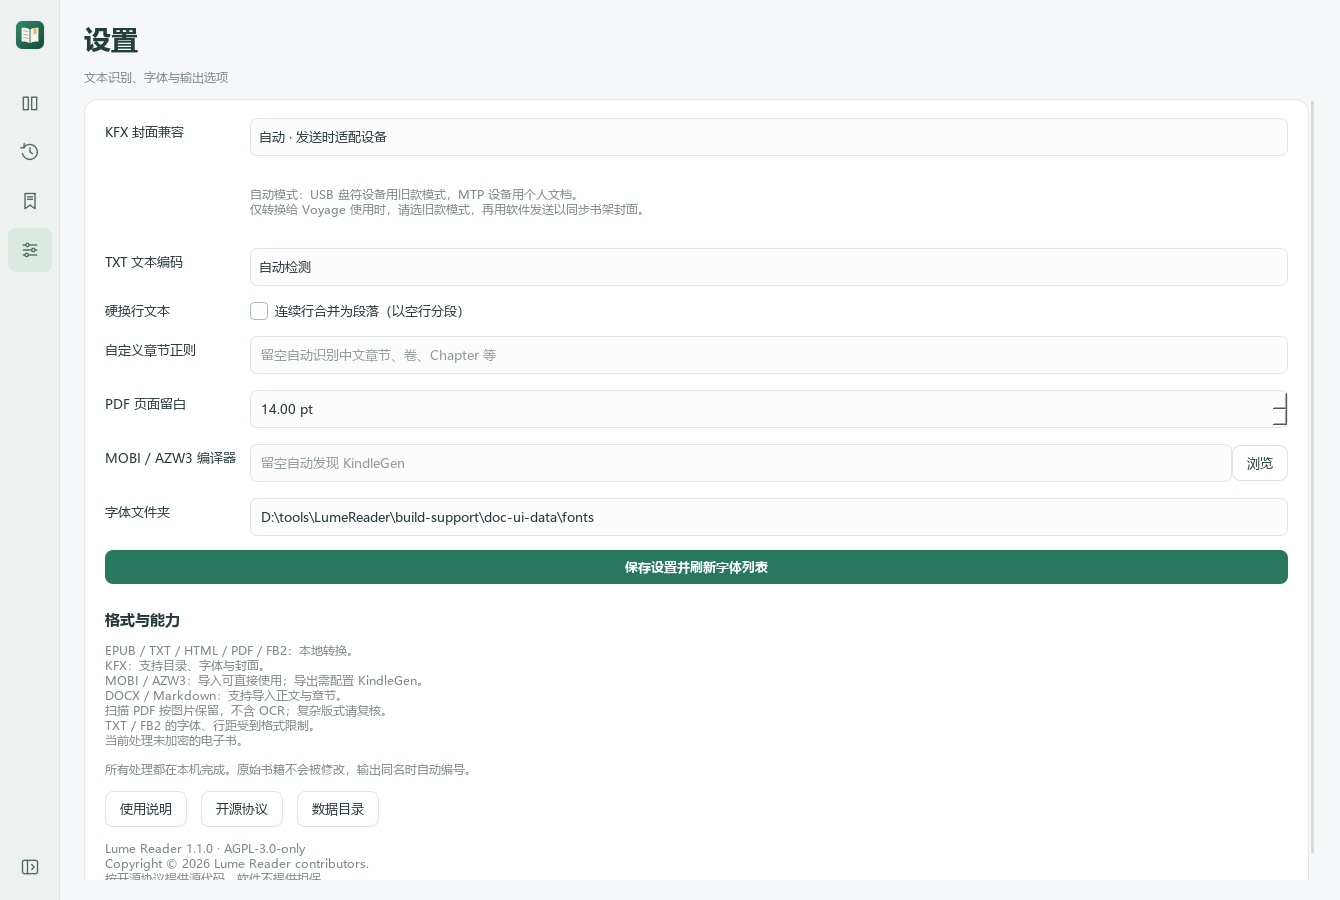
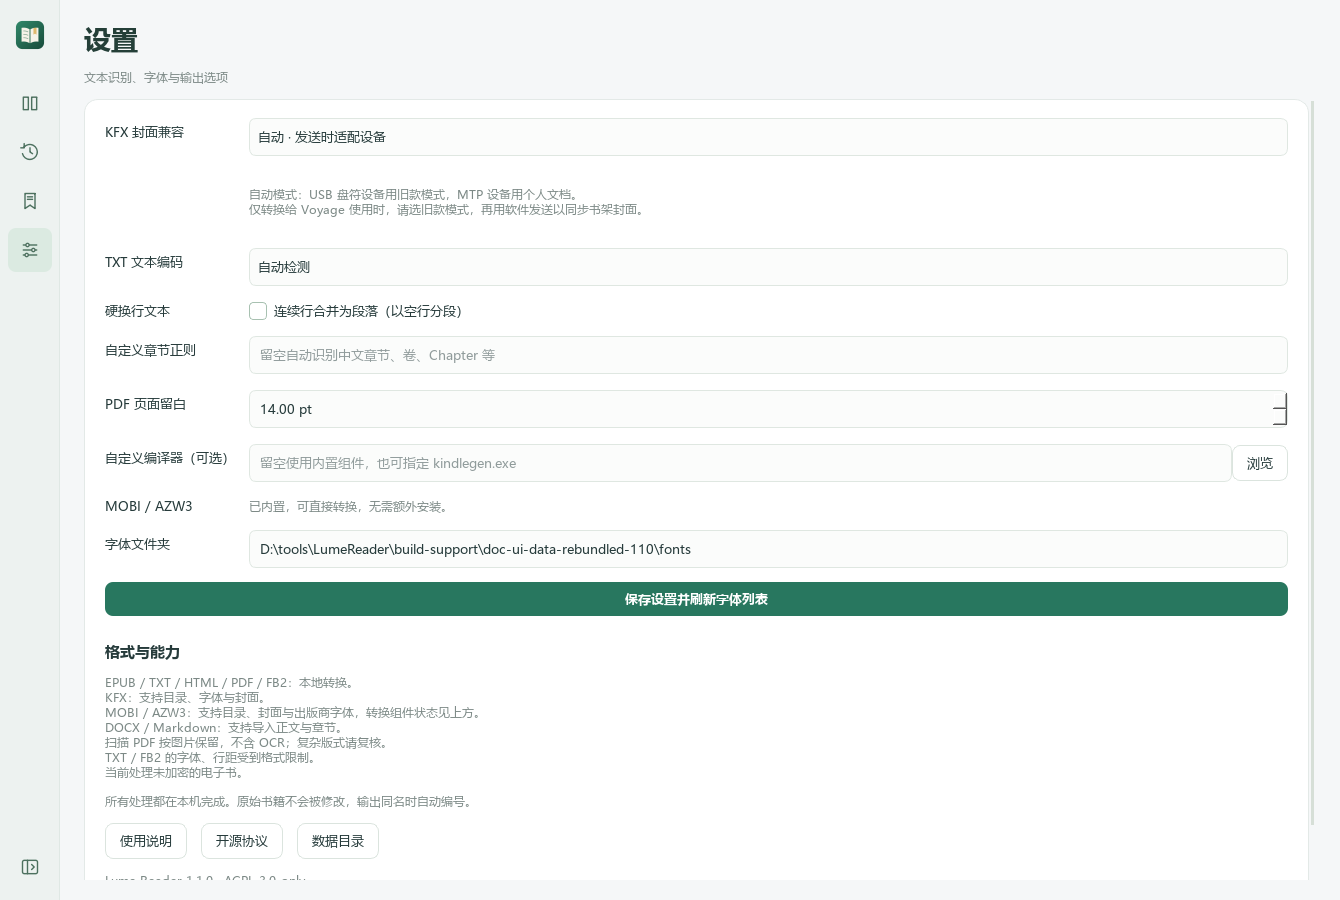
Refresh v1.1.0 with bundled KindleGen and concise release notes

diff --git a/lume/__init__.py b/lume/__init__.py
@@ -1,2 +1,2 @@
 """轻阅 Lume — local ebook conversion and Kindle library management."""
-__version__ = '1.1.1'
+__version__ = '1.1.0'

diff --git a/README.md b/README.md
@@ -6,10 +6,6 @@ Windows 电子书转换与 Kindle 书架管理工具，使用 Python / PyQt6 开
 
 [下载 Windows 安装包](https://github.com/jiuduweiliangeer/LumeReader/releases/latest) · [完整使用说明](docs/USAGE.md) · [构建安装包](docs/BUILD.md) · [开源协议](LICENSE.md)
 
-## 本地集成构建 1.1.1
-
-本地集成安装包已包含 KindleGen，**AZW3 / MOBI 无需额外安装或手动配置**。设置页显示组件状态；旧外部路径失效时自动使用内置组件。连接 Voyage 后可直接推荐 AZW3。集成安装包仅在本地生成，公开 Release v1.1.0 仍按下方依赖表使用。[构建方式](docs/BUILD.md#本地集成-kindlegen)。
-
 ## v1.1.0 更新：新增与修复
 
 1. **兼容与界面修复**：增加 Voyage 等旧款 Kindle 的 KFX 书架封面兼容与封面缓存恢复；修复帮助页中文正文丢失、Markdown 表格和图片显示；主导航可收起为图标栏，并记住展开状态。
@@ -17,24 +13,27 @@ Windows 电子书转换与 Kindle 书架管理工具，使用 Python / PyQt6 开
 3. **设备预设与格式推荐**：提供七种阅读预设，连接 Kindle 后在转换前显示推荐格式与原因，特殊机型自动切换，也可手动指定型号和格式。内置霞鹜文楷、汇文明朝、悠哉字体，保留自备字体入口。
 4. **摘抄管理与导出**：读取或导入 My Clippings.txt，按书籍分类查看划线、笔记和书签，使用窄书名列表与宽阅读区，支持搜索、分页与重复导入去重；检测本机笔记软件，按目标自动转换并导入或打开文件导入流程，也可保存为 ENEX / Markdown。[查看摘抄界面示例](docs/images/clippings.png)。
 
-验证：108 项自动测试通过，独立 EXE 完成 56 次格式转换（其中 49 次为非 TXT 输入互转）；ENEX / ENML 通过官方 DTD 校验。Voyage 真机书架显示仍需设备复核，旧 PDOC KFX 请重新转换并发送。详见 [更新记录](docs/CHANGELOG.md) 和 [Voyage 封面说明](docs/VOYAGE_COVERS.md)。
+5. **内置 KindleGen**：安装包已集成 AZW3 / MOBI 转换组件，无需额外安装或手动配置；旧编译器路径失效时自动使用内置组件。
+6. **Voyage 推荐 AZW3**：连接 Kindle Voyage 后自动推荐 AZW3，仍可手动切换其他格式。
+
+完整变更见 [更新记录](docs/CHANGELOG.md)。
 
 ![书籍工作台](docs/images/workspace.png)
 
 ## 安装与功能介绍
 
 - Windows 10 / 11，64 位。下载 Release 中的 `LumeReader-1.1.0-Setup-x64.exe` 并运行。
-- 安装包已包含 Python、PyQt6 和转换所需的开源组件，**不用安装 Python、Calibre 或 Calibre 插件**。
+- 安装包已包含 Python、PyQt6、KindleGen 和转换所需组件，**不用额外安装 Python、Calibre、KindleGen 或 Calibre 插件**。
 - **TXT、EPUB、KFX、PDF、HTML、FB2 之间互转，安装本软件即可使用。**
 - **MOBI / AZW / AZW3 导入后转为上述六种格式，也不需要 KindleGen。**
-- **只有导出 MOBI / AZW3 需要额外提供 KindleGen**，详见下面的表格和官方下载链接。
+- **AZW3 / MOBI 转换使用已内置的 KindleGen，安装软件即可使用。**
 - Kindle Previewer 是可选的桌面预览工具；KFX 转换本身不依赖它。
 
 当前安装包未做代码签名。Release 同时提供 `SHA256SUMS-1.1.0.txt`，可使用 PowerShell 的 `Get-FileHash` 核对文件。
 
 ## 格式与额外依赖
 
-“直接使用”指已经安装 Lume Reader。转换依赖由**目标格式**决定；原文件必须未加密、内容完整。
+“直接使用”指已经安装 Lume Reader。下表支持的转换均可直接使用；原文件必须未加密、内容完整。
 
 | 格式 | 导入本格式 | 导出为此格式 | 额外安装 | 主要限制 |
 |---|---|---|---|---|
@@ -44,24 +43,24 @@ Windows 电子书转换与 Kindle 书架管理工具，使用 Python / PyQt6 开
 | PDF | 直接使用 | 直接使用 | 无 | 文本可重排；扫描页保留为图片，无 OCR；输出包含目录书签 |
 | HTML / HTM | 直接使用 | 直接使用，输出 HTML | 无 | 单文件输出内嵌图片与字体 |
 | FB2 | 直接使用 | 直接使用 | 无 | 支持章节与图片；字体、行距受格式及阅读器限制 |
-| MOBI | 直接使用 | **需要 KindleGen** | 仅导出需要外部编译器 | 输出 MOBI7 + KF8；旧 MOBI7 不支持嵌入字体 |
-| AZW3 | 直接使用 | **需要 KindleGen** | 仅导出需要外部编译器 | KF8 格式，支持封面、目录及出版商字体 |
+| MOBI | 直接使用 | 直接使用，已内置 KindleGen | 无 | 输出 MOBI7 + KF8；旧 MOBI7 不支持嵌入字体 |
+| AZW3 | 直接使用 | 直接使用，已内置 KindleGen | 无 | KF8 格式，支持封面、目录及出版商字体 |
 | AZW | 直接使用（MOBI/KF8 类型） | 不导出 AZW | 无 | 可转其他目标格式；并非所有 .azw 都是同一种容器 |
 | KFX-ZIP / KPF | 直接使用 | 不导出 | 无 | 只读取可解析且完整的未加密内容 |
 | DOCX | 直接使用 | 不导出 | 无 | 导入正文、标题和图片，复杂表格会简化 |
 | Markdown / MD | 直接使用 | 不导出 | 无 | 导入文字与章节标题 |
 
-例如：`MOBI → KFX`、`AZW3 → EPUB`、`EPUB → PDF`、`PDF → EPUB` 均可直接转换；`EPUB → AZW3`、`KFX → MOBI` 才需要 KindleGen。支持格式不代表复杂版式可以无损互转。
+例如：`MOBI → KFX`、`AZW3 → EPUB`、`EPUB → PDF`、`PDF → EPUB`、`EPUB → AZW3`、`KFX → MOBI` 均可直接转换，无需额外安装转换组件。支持格式不代表复杂版式可以无损互转。
 
 ### 可选软件与官方下载链接
 
 | 软件 / 文件 | 哪些情况需要 | 官方来源 | 配置方式 |
 |---|---|---|---|
-| Amazon KindleGen (`kindlegen.exe`) | **导出 MOBI / AZW3 必需**；其他目标格式不需要 | Amazon 已将工作流转向 [Kindle Previewer 官方页面](https://kdp.amazon.com/en_US/help/topic/G202131170)；本机验证使用 Previewer 3 发行版附带的 KindleGen | 自动查找常见位置；也可在“设置与帮助 → MOBI / AZW3 编译器”选择该文件 |
+| Amazon KindleGen (`kindlegen.exe`) | **已内置**，用于导出 MOBI / AZW3 | [Amazon Kindle 工具说明](https://kdp.amazon.com/en_US/help/topic/G202131170) | 自动使用内置组件；“设置 → 自定义编译器（可选）”可指定其他副本 |
 | Amazon Kindle Previewer | 可选，用于电脑上检查 EPUB 排版 | [Amazon 官方下载与说明](https://kdp.amazon.com/en_US/help/topic/G202131170) | 安装后用它打开生成的 EPUB；并非 KFX 转换依赖 |
 | TTF / OTF 字体 | 可选，内置字体之外希望自行选用时 | 使用自己有权使用的字体，例如 [霞鹜文楷官方项目](https://github.com/lxgw/LxgwWenKai) | 在阅读样式中选择字体，或设置字体文件夹 |
 
-**KindleGen 与 Kindle Previewer 不是同一个依赖。** Amazon 后续发行版可能调整内置文件，不能保证最新 Previewer 一定带有 `kindlegen.exe`。软件实际检测的是该编译器；如果安装后没有它，EPUB / KFX / PDF 等仍可直接转换。本项目不捆绑 KindleGen，也不提供第三方修改版编译器。
+**KindleGen 已随安装包集成，Kindle Previewer 是可选的预览软件。** 转换 AZW3 / MOBI 不需要另行安装 Previewer。KindleGen 保留 Amazon 原始程序与独立授权声明，详见 [依赖说明](docs/DEPENDENCIES.md)。
 
 ## 使用流程
 
@@ -85,9 +84,9 @@ Windows 电子书转换与 Kindle 书架管理工具，使用 Python / PyQt6 开
 | 设备 | 默认推荐 | 说明 |
 |---|---|---|
 | Paperwhite、Oasis、Scribe、较新的入门 Kindle | KFX | USB 盘符同步旧款书架缩略图，MTP 使用个人文档模式 |
-| Voyage | 已配置 KindleGen 时 AZW3，否则 KFX 旧款封面兼容模式 | KFX 需要通过软件发送来同步独立缩略图 |
-| Paperwhite 1、Kindle 3 / 4 / Touch | AZW3；无 KindleGen 时 PDF | 不推荐 KFX |
-| Kindle 1 / 2 / DX | MOBI；无 KindleGen 时 PDF | 不使用 KFX 或 AZW3 |
+| Voyage | **AZW3** | 推荐用于 Voyage；内置 KindleGen 可直接转换，也可手动选择 KFX 旧款兼容模式 |
+| Paperwhite 1、Kindle 3 / 4 / Touch | AZW3 | 不推荐 KFX |
+| Kindle 1 / 2 / DX | MOBI | 不使用 KFX 或 AZW3 |
 
 阅读预设包含 **Paperwhite 6、Voyage、6 英寸入门版、Paperwhite 5、Oasis、Scribe 10.2 / 11 英寸**。可自由调整行距、段距、缩进和字号；PDF 页面尺寸跟随预设。切换预设保留已选字体和封面。
 
@@ -157,13 +156,9 @@ KPW6 默认预设：首行缩进 2 字、行距 1.65、段后距 0.35em，参数
 
 截图使用自编示例内容与模拟设备列表，不包含真实设备书库、私人字体或测试小说。
 
-## 验证与限制
+## 格式限制
 
-- 开发阶段通过 45 项自动测试和 54 组跨格式转换检查；独立 EXE 另通过 56 次转换验证，其中 49 组使用 EPUB、MOBI、AZW3、KFX、PDF、HTML、FB2 等非 TXT 输入。
-- Kindle Previewer 已核对代表性 EPUB 的封面、目录跳转、标题和正文；并非所有格式均逐页人工检查。
-- 部分 AZW3 被 Previewer 以旧版 KindleGen / 第三方文件为由拒绝直接预览；回读 EPUB 不能等同于 AZW3 直接预览。
-- 不处理 DRM，不含 OCR，不承诺复杂公式、固定版式及扫描 PDF 的无损重排。
-- [验证说明](docs/VALIDATION.md) 提供本机耗时。
+不处理 DRM，不含 OCR。复杂公式、固定版式和扫描 PDF 的重排效果受源文件结构及目标格式影响。
 
 ## 源码运行与构建
 

diff --git a/docs/BUILD.md b/docs/BUILD.md
@@ -2,10 +2,10 @@
 
 ## 工具
 
-- Windows x64、[Python](https://www.python.org/downloads/windows/) 3.9 或更高版本，首版使用现有 Python 3.9 环境。
-- [Inno Setup 官方下载](https://jrsoftware.org/isdl.php)，首版使用 6.7.3。
+- Windows x64、[Python](https://www.python.org/downloads/windows/) 3.9 或更高版本。
+- [Inno Setup](https://jrsoftware.org/isdl.php)，当前使用 6.7.3。
 - PyInstaller 6.17.0；运行依赖由 requirements.txt 固定。
-- 默认构建不包含 KindleGen；本地集成构建可显式传入已有的 `kindlegen.exe`，见下文。
+- 构建安装包需要已有的 `kindlegen.exe`，放入 `tools/`，或通过 `-KindleGen` 指定。最终用户无需另行安装。
 
 ## 构建
 
@@ -13,49 +13,44 @@
 python -m venv .venv
 .\.venv\Scripts\python.exe -m pip install -r requirements.txt pyinstaller==6.17.0 pytest==8.4.2
 .\.venv\Scripts\python.exe -m pytest tests -q
-powershell -File packaging\build.ps1 -Python .\.venv\Scripts\python.exe
+powershell -File packaging\build.ps1 -Python .\.venv\Scripts\python.exe -KindleGen '.\tools\kindlegen.exe'
 ~~~
 
-Inno 自定义路径使用 `-ISCC '路径\ISCC.exe'`。
+`-ISCC` 可指定 Inno 编译器路径，`-DistPath` 与 `-WorkPath` 可指定项目内的独立构建目录。
+
+也可直接调用构建工具：
+
+~~~powershell
+$env:LUME_BUNDLE_KINDLEGEN = (Resolve-Path '.\tools\kindlegen.exe').Path
+.\.venv\Scripts\python.exe -m PyInstaller --noconfirm packaging\LumeReader.spec
+& 'C:\Program Files (x86)\Inno Setup 6\ISCC.exe' packaging\LumeReader.iss
+~~~
 
 产物：
+
 - `dist/LumeReader/LumeReader.exe`：GUI。
 - `dist/LumeReader/LumeWorker.exe`：后台转换与命令行入口，不能单独拆走。
-- `release/LumeReader-1.1.1-Setup-x64.exe`：安装包。
+- `release/LumeReader-1.1.0-Setup-x64.exe`：包含 KindleGen 的安装包。
 
 采用目录式 EXE 由 Inno 安装，避免每次启动重复解压。最终用户不需要 Python 开发环境。
 
-## 数据
+## KindleGen 组件
 
-资源来自安装目录；设置、缓存、任务和输出写入 `%LOCALAPPDATA%\LumeReader`。验证时可用 `LUME_DATA_DIR` 指向独立临时目录。源码模式默认使用项目目录。
+构建时将原始 EXE、SHA-256 清单及组件说明放入 `_internal/tools/`；不修改编译器内容。运行时自动使用内置副本，也可在设置中指定其他有效编译器。旧配置路径失效时自动回退。
 
-## 验证与发布
+KindleGen 仍按 Amazon 独立条款使用，不受本项目 AGPL 重新授权。该 EXE 不存入源码仓库；源码运行时可使用被 Git 忽略的 `tools/kindlegen.exe`。直接调用 spec 时通过 `LUME_BUNDLE_KINDLEGEN` 指定文件，留空则使用项目 `tools/kindlegen.exe`；缺少组件时构建报错。
+
+## 数据与检查
+
+资源来自安装目录；设置、缓存、任务和输出写入 `%LOCALAPPDATA%\LumeReader`。开发时可用 `LUME_DATA_DIR` 指向独立临时目录。源码模式默认使用项目目录。
 
 ~~~powershell
 dist\LumeReader\LumeWorker.exe --self-check
-dist\LumeReader\LumeWorker.exe --convert examples\阅读示例.txt --to kfx --output release\smoke-output
+dist\LumeReader\LumeWorker.exe --convert examples\阅读示例.txt --to azw3 --output build-support\smoke-output
 ~~~
 
-继续验证非 TXT 输入、GUI 队列、目录字体封面、MTP 只读检测及 Inno 安装 / 卸载。不要发布用户书籍或字体。
+设置 `LUME_VERIFY_EXE` 指向打包的 LumeWorker.exe、`LUME_VERIFY_BUNDLED_KINDLEGEN=1`，运行 `packaging/verify_bundle.py`，可检查内置组件和跨格式转换。脚本清理外部 KINDLEGEN 环境变量及 PATH，核对组件来源和哈希。字体通过 `LUME_TEST_FONT` 指定。
 
-发布包含版本 tag、安装包、对应源码和 `SHA256SUMS.txt`。修改版本时同步 lume/__init__.py、packaging/version_info.txt 和 Inno AppVersion。
+发布包含版本 tag、安装包、对应源码和 `SHA256SUMS-1.1.0.txt`。修改版本时同步 lume/__init__.py、packaging/version_info.txt 和 Inno AppVersion。
 
-许可和源码链接见 [DEPENDENCIES.md](DEPENDENCIES.md)。测试小说、个人设置、备份、缓存、商业字体及 KindleGen 不属于发布内容。
-
-字体测试可通过 `LUME_TEST_FONT` 指定中文 TTF / OTF，Windows 默认寻找黑体；缺少合适字体时跳过对应测试。KindleGen 测试在缺少编译器时也会跳过。
-
-## 本地集成 KindleGen
-
-将已有的 KindleGen 随本地安装包一起安装，用户无需单独安装或填写路径：
-
-~~~powershell
-powershell -File packaging\build.ps1 -Python .\.venv\Scripts\python.exe -KindleGen 'D:\tools\kindlegen.exe'
-~~~
-
-集成产物为 `release/LumeReader-1.1.1-Integrated-Setup-x64.exe`，不覆盖标准安装包。`-DistPath` 与 `-WorkPath` 可指定项目内的独立构建目录。
-
-PyInstaller 将原始 EXE、SHA-256 清单及组件说明放入 `_internal/tools/`。运行时优先使用此副本；仍可在设置中指定其他有效编译器。旧配置路径失效时自动回退到内置组件。源码运行时也可使用被 Git 忽略的 `tools/kindlegen.exe`。
-
-直接调用 spec 时设置 `LUME_BUNDLE_KINDLEGEN` 为该文件路径。不传参数的构建不会把本机自动发现的编译器带入安装包。KindleGen 仍按 Amazon 条款使用；集成功能不授予再分发权，本次集成安装包仅在本地生成。
-
-验证集成构建时设置 `LUME_VERIFY_EXE` 指向打包的 LumeWorker.exe、`LUME_VERIFY_BUNDLED_KINDLEGEN=1`，运行 `packaging/verify_bundle.py`。验证会移除外部 KINDLEGEN 环境变量、清理 PATH，检查组件来源与哈希，并执行包含 MOBI / AZW3 的转换矩阵。
+许可和源码链接见 [DEPENDENCIES.md](DEPENDENCIES.md)。用户小说、个人设置、备份、缓存和私人字体不属于发布内容。

diff --git a/docs/CHANGELOG.md b/docs/CHANGELOG.md
@@ -1,21 +1,15 @@
-# 1.1.1（本地集成构建）
-
-- 支持随本地安装包集成 KindleGen，AZW3 / MOBI 可直接转换；标准构建保留外部组件支持。
-- 优先使用安装目录中的内置组件，不依赖工作目录、PATH 或单独安装 Kindle Previewer。
-- 旧配置中的外部路径失效时自动回退，保留有效的手动覆盖路径。
-- 设置与格式提示展示实际组件状态；Voyage 检测到内置组件后直接推荐 AZW3。
-- 打包记录组件 SHA-256，增加不依赖外部 KINDLEGEN 环境变量的 EXE 转换验证。
-
 # 1.1.0
 
-- 修复 Voyage 等旧款 Kindle 的 KFX 书架封面兼容，增加已发送封面的缓存恢复。
-- 修复帮助文档中文正文丢失与 Markdown 表格渲染，统一明亮主题。
-- 批量转换开始时询问是否逐本设置封面，并提供设置向导；主界面不占用独立选项行，直接发送继续保留原文件。
-- 增加七种阅读预设，PDF 页面尺寸跟随设备尺寸。
-- 连接设备后提前显示格式推荐与原因；支持自动型号识别和手动指定。
-- 内置霞鹜文楷、汇文明朝、悠哉字体及各自许可；保留自备字体支持。
-- 新增摘抄页：USB / MTP 读取或文件导入，按书籍分类、搜索、分页、去重；窄书名栏、宽阅读区和顶部工具栏。
-- 主导航去掉编号，可收起为图标栏并记住状态。
-- 检测本机笔记软件，支持 Obsidian / Logseq 文件库直接写入、Joplin 本地接口导入，以及 ENEX / Markdown ZIP 接收流程；保留通用文件导出。
-
-Voyage 真机书架显示需在设备上复核；代码与模拟 USB 目录已验证文档类型、封面命名、同步和恢复。详情见 [Voyage 封面说明](VOYAGE_COVERS.md)。
+- 已内置 KindleGen，AZW3 / MOBI 无需额外安装或手动配置。
+- Kindle Voyage 推荐使用 AZW3，连接后自动显示推荐格式，也可手动切换。
+- 优化 Voyage 等旧款 Kindle 的 KFX 书架封面兼容，增加已发送封面的缓存恢复。
+- 修复帮助页中文正文、表格及图片显示，统一明亮主题。
+- 批量转换开始时询问是否逐本设置封面，并提供选图向导；添加书籍和直接发送不弹窗。
+- 增加七种阅读预设，支持自定义排版，PDF 页面尺寸跟随设备尺寸。
+- 连接设备后提前显示格式推荐与原因，支持自动识别和手动指定型号。
+- 内置霞鹜文楷、汇文明朝、悠哉字体，保留自备字体入口。
+- 新增摘抄页，按书籍分类查看划线、笔记与书签，支持搜索、分页和重复导入去重。
+- 优化摘抄布局：左侧窄书名栏、右侧阅读区，导入与保存操作集中在顶部。
+- 主导航去掉编号，支持收起为图标栏并记住状态。
+- 自动检测笔记软件，支持按目标转换摘抄、导入或打开文件导入流程，保留 ENEX / Markdown 导出。
+- 设置页展示转换组件状态；原有外部编译器路径失效时自动回退到内置组件。

diff --git a/docs/USAGE.md b/docs/USAGE.md
@@ -4,9 +4,9 @@
 
 安装 Windows x64 版本后，从开始菜单或桌面快捷方式启动“轻阅 Lume Reader”，无需 Python 环境。内置转换可离线执行。
 
-额外依赖按 [README 格式表](../README.md#格式与额外依赖) 判断。导出 MOBI / AZW3 使用 KindleGen：本地集成版已包含组件，可直接转换；标准版需要另行提供。导入它们并转成 KFX / EPUB 等不需要。
+安装包已内置 KindleGen，MOBI / AZW3 可直接转换，无需额外安装或配置。各格式能力见 [README 格式表](../README.md#格式与额外依赖)。
 
-[Amazon Kindle Previewer 官方页面](https://kdp.amazon.com/en_US/help/topic/G202131170) 提供桌面预览软件下载。部分发行版附带 `lib\fc\bin\kindlegen.exe`，新版内容可能变化。本软件也支持手动配置已安装的 KindleGen 或设置 `KINDLEGEN` 环境变量。
+[Amazon Kindle Previewer 官方页面](https://kdp.amazon.com/en_US/help/topic/G202131170) 提供桌面预览软件下载。本软件转换 AZW3 / MOBI 不需要安装 Previewer。需要替换编译器时，可在“设置 → 自定义编译器（可选）”指定已有的 kindlegen.exe。
 
 ## 批量操作
 
@@ -36,7 +36,7 @@
 
 ### Voyage / 旧款 KFX 书架封面
 
-连接 Voyage 后使用“转换并发送”，默认自动模式会选择旧款兼容格式并发送缩略图。仅转换时，在“设置 → KFX 封面兼容”选择“旧款 Kindle / Voyage”，转换后用软件发送。
+连接 Voyage 后推荐选择 AZW3，再点击“转换并发送”。如需使用 KFX，可手动切换格式；自动模式会选择旧款封面兼容方式并发送缩略图。仅转换 KFX 时，在“设置 → KFX 封面兼容”选择“旧款 Kindle / Voyage”，转换后用软件发送。
 
 旧版生成的 KFX 也可以重新导入，再转换为 KFX。若封面联网后消失，重连数据线并点击“刷新书架”。这只会恢复本软件发送过且书籍仍在设备上的封面；具体限制见 [Voyage 封面说明](VOYAGE_COVERS.md)。
 
@@ -50,7 +50,7 @@
 
 | 现象 | 检查 |
 |---|---|
-| MOBI / AZW3 输出缺少编译器 | 集成版可重新安装恢复内置组件；标准版配置真实存在的 kindlegen.exe；其他输出不受影响 |
+| MOBI / AZW3 输出缺少编译器 | 重新安装恢复内置组件，或在设置中指定真实存在的 kindlegen.exe；其他输出不受影响 |
 | Kindle 未出现 | 检查数据线、解锁状态，手动刷新 |
 | 字体未生效 | 格式是否支持、是否选择出版商字体、字体是否缺字 |
 | 扫描 PDF 无可编辑文字 | 扫描页作为图片保留，没有 OCR |

diff --git a/THIRD_PARTY.md b/THIRD_PARTY.md
@@ -20,11 +20,11 @@ Local adaptations:
 
 Python/Qt dependencies are listed with versions in requirements.txt; their installed distribution metadata retains their individual licenses. PyQt6 / Qt, PyMuPDF, fontTools, ReportLab, Pillow, lxml, cssselect2, tinycss2, BeautifulSoup and comtypes are third-party packages.
 
-Amazon KindleGen is optional in standard public builds and is not committed to this source repository. An explicit local integrated build can include a locally supplied copy, unchanged, with a hash manifest and separate notice. It remains subject to Amazon terms; no redistribution rights are granted by this project.
+The Windows installer includes an unmodified Amazon KindleGen 2.9 executable for AZW3 / MOBI conversion, with a SHA-256 manifest and separate notice in `_internal/tools/`. KindleGen remains Amazon software under its own terms and is not covered by the project AGPL license. The executable is not committed to this source repository.
 
 ## Windows release
 
-Exact versions, source retrieval links and retained licenses: [docs/DEPENDENCIES.md](docs/DEPENDENCIES.md). Application source is published with each release. Original SVG/PNG/ICO artwork uses AGPL-3.0-only. Private user fonts, novels, device data and KindleGen are not redistributed. The three explicitly licensed bundled fonts are listed below.
+Exact versions, source retrieval links and retained licenses: [docs/DEPENDENCIES.md](docs/DEPENDENCIES.md). Application source is published with each release. Original SVG/PNG/ICO artwork uses AGPL-3.0-only. Private user fonts, novels and device data are not redistributed. The three explicitly licensed bundled fonts are listed below.
 
 Release compatibility adaptation: deferred type annotation evaluation in bundled formula helpers for Python 3.9. Original headers and licenses retained. Files: vendor/kfxgen/vendor/latex2mathml/symbols_parser.py.
 

diff --git a/docs/VOYAGE_COVERS.md b/docs/VOYAGE_COVERS.md
@@ -5,7 +5,7 @@
 ## 如何处理
 
 1. 连接并解锁 Kindle，检查设备栏型号。未自动识别时手动选择 Kindle Voyage。
-2. 查看主界面的格式推荐。已配置 KindleGen 时推荐 AZW3；没有编译器时推荐 KFX，并使用旧款封面兼容模式。
+2. 查看主界面的格式推荐。Voyage 推荐使用 AZW3，软件已内置 KindleGen，无需额外安装或配置。
 3. 如果继续使用 KFX，将旧文件重新加入队列，选择 KFX，然后点击“转换并发送”。自动模式会生成 EBOK，并把对应缩略图发送至设备。
 4. 未连接设备、仅转换给 Voyage 使用时，在“设置 → KFX 封面兼容”选择“旧款 Kindle / Voyage”。之后通过软件发送文件；仅用文件管理器拖入 documents 不会发送独立书架缩略图。
 5. 安全弹出 USB，等待 Kindle 索引。若联网后封面被设备替换，再连接电脑，在软件中刷新书架，恢复本软件缓存的缩略图。
